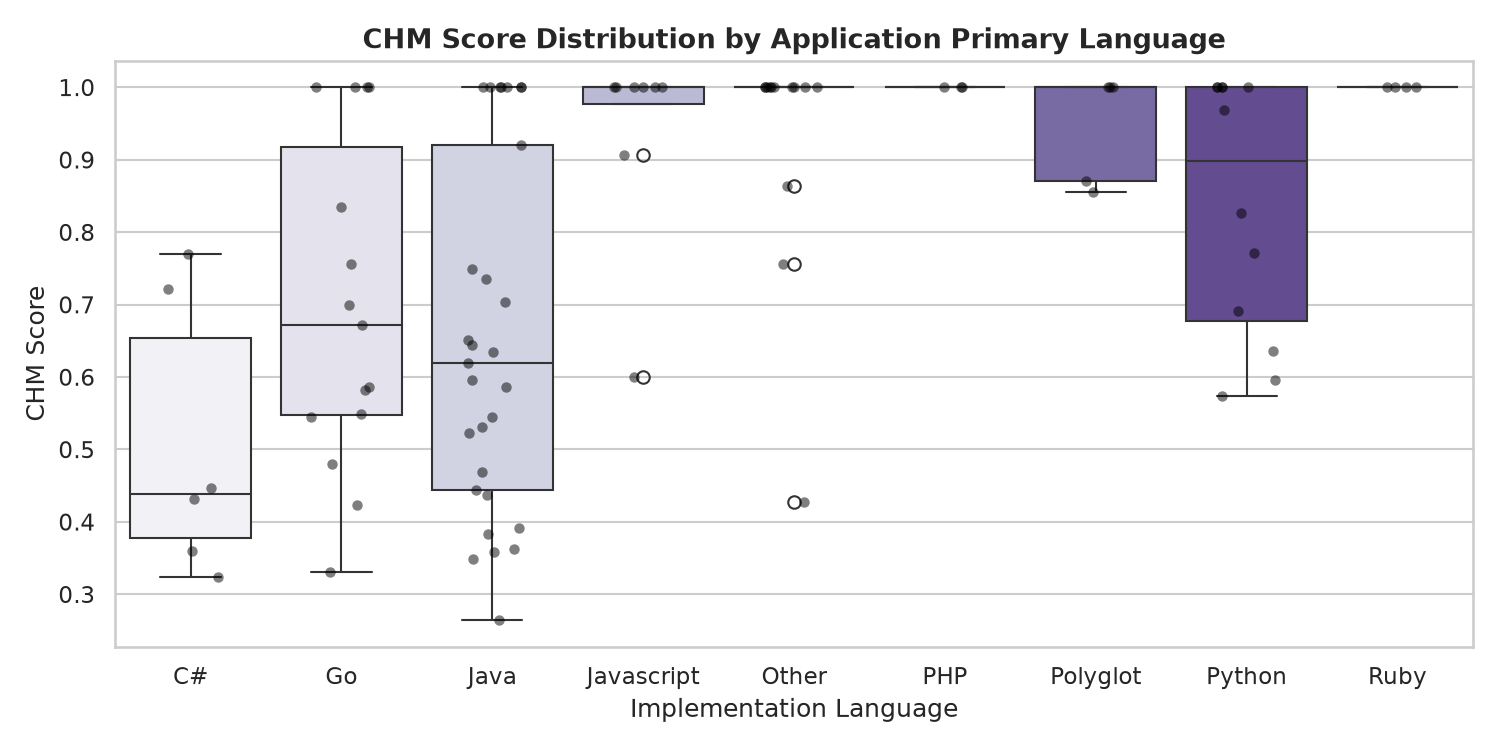
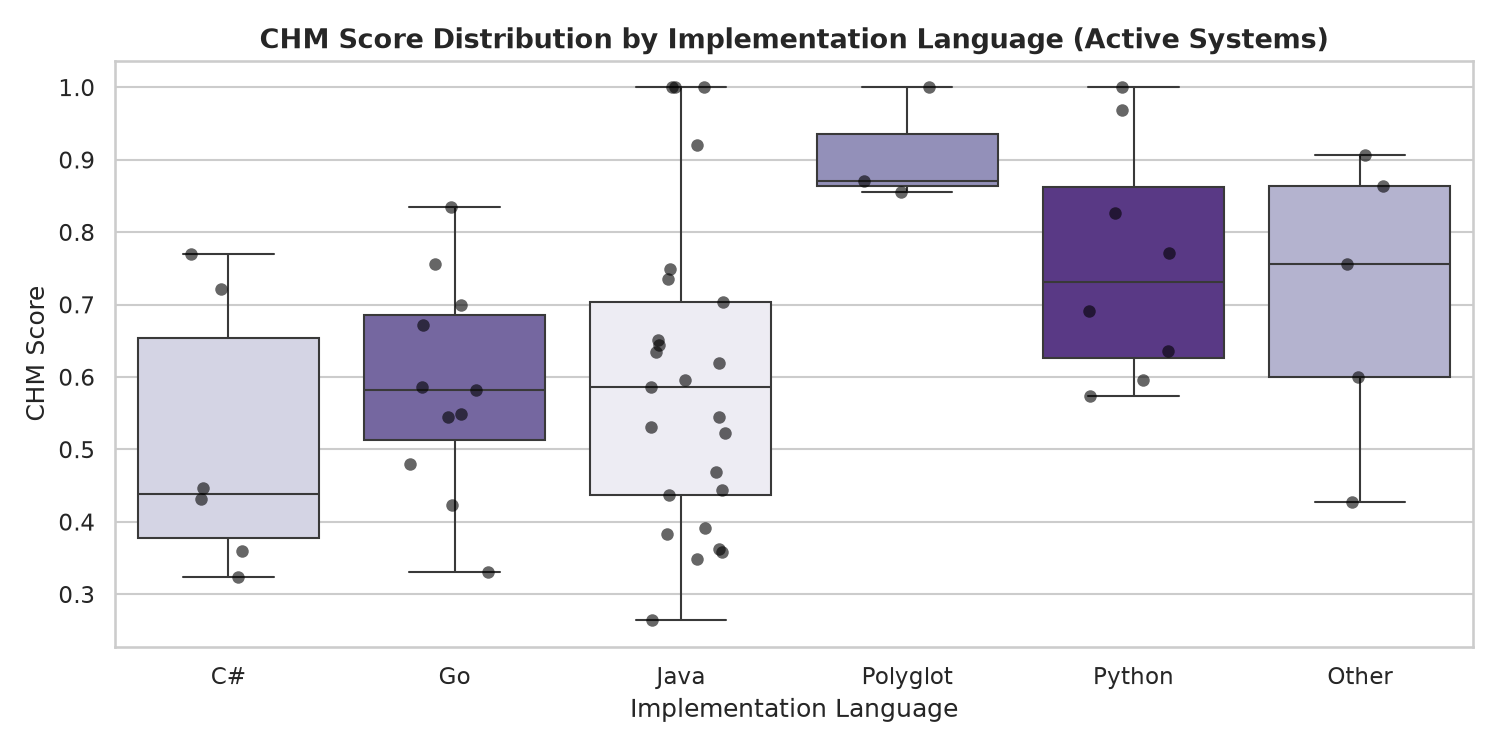
fix(analysis): refine language breakdowns and remove symlog negative axis artifacts
- Filter language distributions in CHD, CHM, and IFN to active application systems to avoid 0-call fallback artifacts (Ruby, PHP, JS pinned to 1.0)
- Exclude Infrastructure from NED language breakdown plot, displaying pure application language ecosystems
- Replace symlog with standard log scale on calls and IFN axes, eliminating negative tick marks
- Regenerate analytical figures and multi-page PDF reports

diff --git a/analysis/ifn.py b/analysis/ifn.py
@@ -244,7 +244,9 @@ sns.boxplot(
     data=cohort_data,
     x="Cohort",
     y="IFN Score",
+    hue="Cohort",
     palette=["darkcyan", "lightgray"],
+    legend=False,
     ax=axes[1],
     width=0.4
 )
@@ -259,40 +261,44 @@ print(f"Saved distribution plot to: {fig_dist_path}")
 plt.show()
 
 # %% [markdown]
-# ## 4. Breakdown by Implementation Language
+# ## 4. Breakdown by Implementation Language (Connected Application Microservices)
 #
-# Comparing exposed interface complexity across programming languages.
+# Comparing exposed interface complexity across programming languages
+# for microservices with active inter-service edge extraction.
 
 # %%
-lang_counts = df_valid["language"].value_counts()
-main_langs = lang_counts[lang_counts >= 2].index
-df_valid["lang_group"] = df_valid["language"].apply(lambda l: l if l in main_langs else "Other")
+active_lang_counts = df_active["language"].value_counts()
+main_langs = active_lang_counts[active_lang_counts >= 3].index.tolist()
+df_active["lang_group"] = df_active["language"].apply(lambda l: l if l in main_langs else "Other")
 
 fig, ax = plt.subplots(figsize=(10, 5))
-order_langs = sorted(df_apps["lang_group"].unique())
+order_langs = sorted(df_active["lang_group"].unique(), key=lambda l: (l == "Other", l))
 sns.boxplot(
-    data=df_apps,
+    data=df_active,
     x="lang_group",
     y="ifn_score",
+    hue="lang_group",
     palette="GnBu",
+    legend=False,
     ax=ax,
     order=order_langs
 )
 sns.stripplot(
-    data=df_apps,
+    data=df_active,
     x="lang_group",
     y="ifn_score",
     color="black",
-    alpha=0.5,
+    alpha=0.6,
     jitter=0.2,
-    size=5,
+    size=6,
     ax=ax,
     order=order_langs
 )
-ax.set_yscale("symlog")
-ax.set_title("IFN Score Distribution by Application Primary Language (SymLog Scale)", fontsize=13, fontweight="bold")
+ax.set_yscale("log")
+ax.set_ylim(bottom=0.1)
+ax.set_title("IFN Score Distribution by Implementation Language (Connected Systems)", fontsize=13, fontweight="bold")
 ax.set_xlabel("Implementation Language")
-ax.set_ylabel("IFN Score")
+ax.set_ylabel("IFN Score (Avg Interfaces / Service, log scale)")
 plt.tight_layout()
 
 fig_lang_path = PROJECT_ROOT / "analysis" / "ifn_by_language.png"
@@ -334,10 +340,11 @@ sns.scatterplot(
     ax=axes[0]
 )
 axes[0].set_xscale("log")
-axes[0].set_yscale("symlog")
-axes[0].set_title("Total Classes vs. IFN (Connected Apps, Log-SymLog Scale)", fontsize=13, fontweight="bold")
+axes[0].set_yscale("log")
+axes[0].set_ylim(bottom=0.1)
+axes[0].set_title("Total Classes vs. IFN (Connected Apps, Log-Log Scale)", fontsize=13, fontweight="bold")
 axes[0].set_xlabel("Total Classes (log scale)")
-axes[0].set_ylabel("IFN Score (symlog)")
+axes[0].set_ylabel("IFN Score (log scale)")
 axes[0].legend(bbox_to_anchor=(1.05, 1), loc='upper left')
 
 # Plot 2: Service Count vs IFN
@@ -351,10 +358,11 @@ sns.scatterplot(
     alpha=0.7,
     ax=axes[1]
 )
-axes[1].set_yscale("symlog")
-axes[1].set_title("Service Count vs. IFN (Connected Apps)", fontsize=13, fontweight="bold")
+axes[1].set_yscale("log")
+axes[1].set_ylim(bottom=0.1)
+axes[1].set_title("Service Count vs. IFN (Connected Apps, Log Scale)", fontsize=13, fontweight="bold")
 axes[1].set_xlabel("Service Count")
-axes[1].set_ylabel("IFN Score (symlog)")
+axes[1].set_ylabel("IFN Score (log scale)")
 axes[1].legend(bbox_to_anchor=(1.05, 1), loc='upper left')
 
 plt.tight_layout()

diff --git a/analysis/chm.py b/analysis/chm.py
@@ -241,7 +241,9 @@ sns.boxplot(
     data=cohort_data,
     x="Cohort",
     y="CHM Score",
+    hue="Cohort",
     palette=["darkslateblue", "lightcoral"],
+    legend=False,
     ax=axes[1],
     width=0.4
 )
@@ -255,36 +257,40 @@ print(f"Saved distribution plot to: {fig_dist_path}")
 plt.show()
 
 # %% [markdown]
-# ## 4. Breakdown by Implementation Language
+# ## 4. Breakdown by Implementation Language (Active Application Microservices)
 #
-# Comparing message type homogeneity across language paradigms (e.g. strongly typed Java vs. dynamically typed Python).
+# Comparing message type homogeneity across language paradigms
+# for microservices with active method invocation extraction.
 
 # %%
-lang_counts = df_valid["language"].value_counts()
-main_langs = lang_counts[lang_counts >= 2].index
-df_valid["lang_group"] = df_valid["language"].apply(lambda l: l if l in main_langs else "Other")
+active_lang_counts = df_active["language"].value_counts()
+main_langs = active_lang_counts[active_lang_counts >= 3].index.tolist()
+df_active["lang_group"] = df_active["language"].apply(lambda l: l if l in main_langs else "Other")
+
 fig, ax = plt.subplots(figsize=(10, 5))
-order_langs = sorted(df_apps["lang_group"].unique())
+order_langs = sorted(df_active["lang_group"].unique(), key=lambda l: (l == "Other", l))
 sns.boxplot(
-    data=df_apps,
+    data=df_active,
     x="lang_group",
     y="chm_score",
+    hue="lang_group",
     palette="Purples",
+    legend=False,
     ax=ax,
     order=order_langs
 )
 sns.stripplot(
-    data=df_apps,
+    data=df_active,
     x="lang_group",
     y="chm_score",
     color="black",
-    alpha=0.5,
+    alpha=0.6,
     jitter=0.2,
-    size=5,
+    size=6,
     ax=ax,
     order=order_langs
 )
-ax.set_title("CHM Score Distribution by Application Primary Language", fontsize=13, fontweight="bold")
+ax.set_title("CHM Score Distribution by Implementation Language (Active Systems)", fontsize=13, fontweight="bold")
 ax.set_xlabel("Implementation Language")
 ax.set_ylabel("CHM Score")
 plt.tight_layout()
@@ -344,9 +350,10 @@ sns.scatterplot(
     alpha=0.7,
     ax=axes[1]
 )
-axes[1].set_xscale("symlog")
-axes[1].set_title("Calls Analyzed vs. CHM (Active Apps)", fontsize=13, fontweight="bold")
-axes[1].set_xlabel("Inter-Service Calls (symlog)")
+axes[1].set_xscale("log")
+axes[1].set_xlim(left=0.8)
+axes[1].set_title("Calls Analyzed vs. CHM (Active Apps, Log Scale)", fontsize=13, fontweight="bold")
+axes[1].set_xlabel("Inter-Service Calls (log scale)")
 axes[1].set_ylabel("CHM Score")
 axes[1].legend(bbox_to_anchor=(1.05, 1), loc='upper left')
 

diff --git a/analysis/chd.py b/analysis/chd.py
@@ -244,7 +244,9 @@ sns.boxplot(
     data=cohort_data,
     x="Cohort",
     y="CHD Score",
+    hue="Cohort",
     palette=["forestgreen", "salmon"],
+    legend=False,
     ax=axes[1],
     width=0.4
 )
@@ -258,38 +260,40 @@ print(f"Saved distribution plot to: {fig_dist_path}")
 plt.show()
 
 # %% [markdown]
-# ## 4. Breakdown by Implementation Language
+# ## 4. Breakdown by Implementation Language (Active Application Microservices)
 #
-# Investigating whether architecture language influences domain term cohesiveness.
+# Investigating whether architecture language influences domain term cohesiveness
+# across microservices with active method invocation extraction.
 
 # %%
-lang_counts = df_valid["language"].value_counts()
-main_langs = lang_counts[lang_counts >= 2].index
-df_valid["lang_group"] = df_valid["language"].apply(lambda l: l if l in main_langs else "Other")
+active_lang_counts = df_active["language"].value_counts()
+main_langs = active_lang_counts[active_lang_counts >= 3].index.tolist()
+df_active["lang_group"] = df_active["language"].apply(lambda l: l if l in main_langs else "Other")
 
-# %%
 fig, ax = plt.subplots(figsize=(10, 5))
-order_langs = sorted(df_apps["lang_group"].unique())
+order_langs = sorted(df_active["lang_group"].unique(), key=lambda l: (l == "Other", l))
 sns.boxplot(
-    data=df_apps,
+    data=df_active,
     x="lang_group",
     y="chd_score",
+    hue="lang_group",
     palette="Set2",
+    legend=False,
     ax=ax,
     order=order_langs
 )
 sns.stripplot(
-    data=df_apps,
+    data=df_active,
     x="lang_group",
     y="chd_score",
     color="black",
-    alpha=0.5,
+    alpha=0.6,
     jitter=0.2,
-    size=5,
+    size=6,
     ax=ax,
     order=order_langs
 )
-ax.set_title("CHD Score Distribution by Application Primary Language", fontsize=13, fontweight="bold")
+ax.set_title("CHD Score Distribution by Implementation Language (Active Systems)", fontsize=13, fontweight="bold")
 ax.set_xlabel("Implementation Language")
 ax.set_ylabel("CHD Score")
 plt.tight_layout()
@@ -351,9 +355,10 @@ sns.scatterplot(
     alpha=0.7,
     ax=axes[1]
 )
-axes[1].set_xscale("symlog")
-axes[1].set_title("Calls Analyzed vs. CHD (Active Apps)", fontsize=13, fontweight="bold")
-axes[1].set_xlabel("Inter-Service Calls (symlog)")
+axes[1].set_xscale("log")
+axes[1].set_xlim(left=0.8)
+axes[1].set_title("Calls Analyzed vs. CHD (Active Apps, Log Scale)", fontsize=13, fontweight="bold")
+axes[1].set_xlabel("Inter-Service Calls (log scale)")
 axes[1].set_ylabel("CHD Score")
 axes[1].legend(bbox_to_anchor=(1.05, 1), loc='upper left')
 

diff --git a/analysis/ned.py b/analysis/ned.py
@@ -289,11 +289,11 @@ plt.show()
 
 # %%
 # Group languages with few occurrences into 'Other'
-lang_counts = df_valid["language"].value_counts()
+lang_counts = df_apps["language"].value_counts()
 major_langs = lang_counts[lang_counts >= 3].index.tolist()
-df_valid["lang_group"] = df_valid["language"].apply(lambda l: l if l in major_langs else "Other")
+df_apps["lang_group"] = df_apps["language"].apply(lambda l: l if l in major_langs else "Other")
 
-lang_agg = df_valid.groupby("lang_group").agg(
+lang_agg = df_apps.groupby("lang_group").agg(
     systems_count=("system_id", "count"),
     mean_ned_abs=("ned_absolute", "mean"),
     median_ned_abs=("ned_absolute", "median"),
@@ -308,7 +308,7 @@ print(lang_agg.round(3).to_string(index=False))
 # %%
 fig, ax = plt.subplots(figsize=(10, 5))
 melted_lang = pd.melt(
-    df_valid,
+    df_apps,
     id_vars=["lang_group"],
     value_vars=["ned_absolute", "ned_relative"],
     var_name="Metric",
@@ -325,7 +325,7 @@ sns.barplot(
     errorbar=None,
     ax=ax
 )
-ax.set_title("Mean NED Score by Language Ecosystem", fontsize=13, fontweight="bold")
+ax.set_title("Mean NED Score by Application Language Ecosystem", fontsize=13, fontweight="bold")
 ax.set_xlabel("Language Ecosystem")
 ax.set_ylabel("Average Score")
 ax.set_ylim(0, 1.0)
